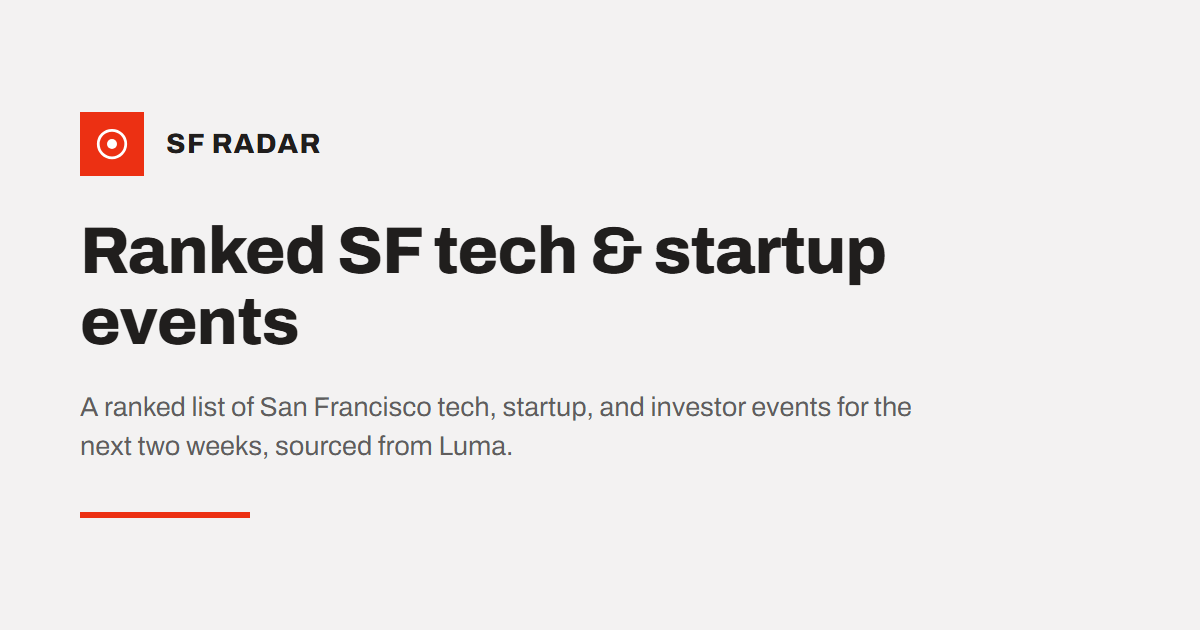
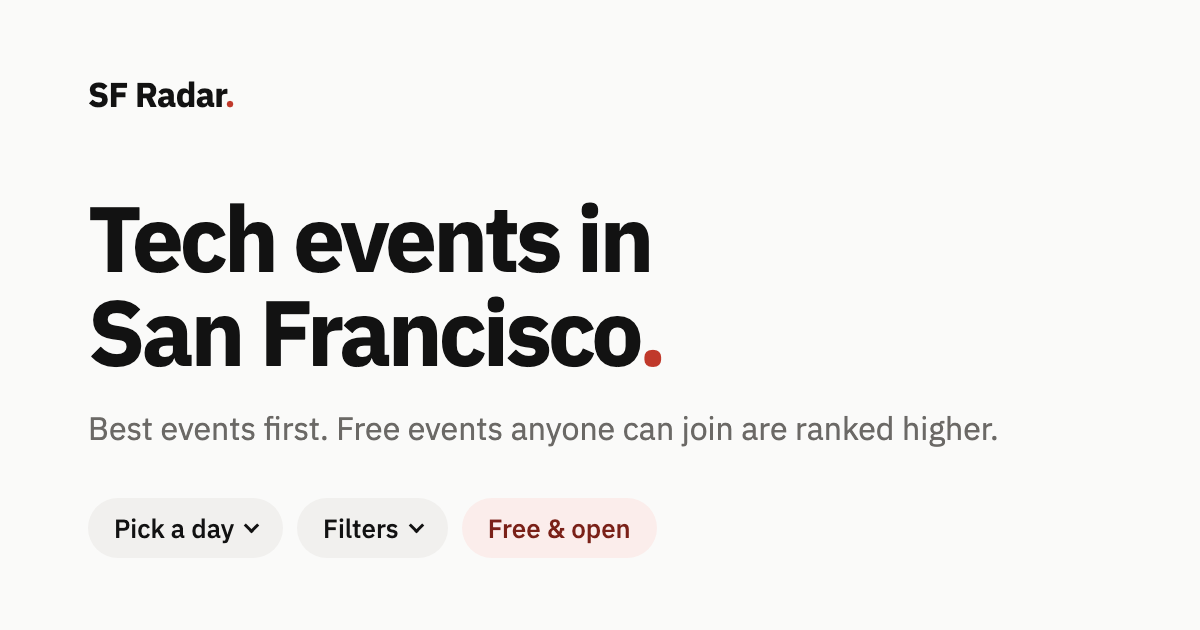
SEO pass: sitemap, robots, full meta, landmarks, new OG image, READMEs
- public/robots.txt and sitemap.xml: only / is public; /plan, /group,
  /feed and /api stay out (they already send X-Robots-Tag: noindex).
- index.html: tighter title and description, canonical, robots meta,
  og:site_name/locale/image size+alt, twitter:image:alt, WebSite JSON-LD,
  noscript fallback. Private routes swap to noindex and drop canonical.
- Landmarks: header and footer moved out of <main>; event times in
  <time datetime>.
- New 1200x630 og-image.png in the current design (cache-busted ?v=2).
- README frontend section rewritten for the current UI; web README
  replaces the Vite template.

diff --git a/sf-radar-ingest/sf-radar-web/index.html b/sf-radar-ingest/sf-radar-web/index.html
@@ -1,32 +1,74 @@
 <!doctype html>
-<html lang="en">
+<html lang="en" dir="ltr">
   <head>
     <meta charset="UTF-8" />
+    <meta name="viewport" content="width=device-width, initial-scale=1.0, viewport-fit=cover" />
+
+    <title>SF Radar: Tech &amp; startup events in San Francisco, ranked</title>
+    <meta name="description" content="Every day's tech, startup and investor events in San Francisco, ranked best first. Free events anyone can join rank higher. Pick a day, save what you like." />
+    <link rel="canonical" href="https://sf-radar-ingest.vercel.app/" />
+    <meta name="robots" content="index, follow, max-image-preview:large" />
+    <meta name="author" content="Alex Koukos" />
+
     <link rel="icon" type="image/svg+xml" href="/favicon.svg" />
     <link rel="icon" type="image/png" sizes="32x32" href="/favicon-32.png" />
     <link rel="apple-touch-icon" href="/apple-touch-icon.png" />
-    <meta name="viewport" content="width=device-width, initial-scale=1.0, viewport-fit=cover" />
+    <link rel="sitemap" type="application/xml" href="/sitemap.xml" />
+
     <meta name="color-scheme" content="light dark" />
     <meta name="theme-color" content="#FAFAF9" media="(prefers-color-scheme: light)" />
     <meta name="theme-color" content="#121212" media="(prefers-color-scheme: dark)" />
     <link rel="preconnect" href="https://fonts.googleapis.com" />
     <link rel="preconnect" href="https://fonts.gstatic.com" crossorigin />
-    <title>SF Radar — Ranked SF tech &amp; startup events</title>
-    <meta name="description" content="A ranked list of San Francisco tech, startup, and investor events by day, sourced from Luma." />
 
+    <!-- Open Graph (link previews in iMessage, Slack, WhatsApp, LinkedIn) -->
     <meta property="og:type" content="website" />
-    <meta property="og:title" content="SF Radar — Ranked SF tech & startup events" />
-    <meta property="og:description" content="A ranked list of San Francisco tech, startup, and investor events by day, sourced from Luma." />
-    <meta property="og:image" content="https://sf-radar-ingest.vercel.app/og-image.png" />
+    <meta property="og:site_name" content="SF Radar" />
+    <meta property="og:locale" content="en_US" />
     <meta property="og:url" content="https://sf-radar-ingest.vercel.app/" />
+    <meta property="og:title" content="SF Radar: Tech & startup events in San Francisco, ranked" />
+    <meta property="og:description" content="Every day's tech, startup and investor events in San Francisco, ranked best first. Free events anyone can join rank higher." />
+    <meta property="og:image" content="https://sf-radar-ingest.vercel.app/og-image.png?v=2" />
+    <meta property="og:image:type" content="image/png" />
+    <meta property="og:image:width" content="1200" />
+    <meta property="og:image:height" content="630" />
+    <meta property="og:image:alt" content="SF Radar. Tech events in San Francisco, ranked best first." />
 
     <meta name="twitter:card" content="summary_large_image" />
-    <meta name="twitter:title" content="SF Radar — Ranked SF tech & startup events" />
-    <meta name="twitter:description" content="A ranked list of San Francisco tech, startup, and investor events by day, sourced from Luma." />
-    <meta name="twitter:image" content="https://sf-radar-ingest.vercel.app/og-image.png" />
+    <meta name="twitter:title" content="SF Radar: Tech & startup events in San Francisco, ranked" />
+    <meta name="twitter:description" content="Every day's tech, startup and investor events in San Francisco, ranked best first. Free events anyone can join rank higher." />
+    <meta name="twitter:image" content="https://sf-radar-ingest.vercel.app/og-image.png?v=2" />
+    <meta name="twitter:image:alt" content="SF Radar. Tech events in San Francisco, ranked best first." />
+
+    <script type="application/ld+json">
+      {
+        "@context": "https://schema.org",
+        "@type": "WebSite",
+        "name": "SF Radar",
+        "url": "https://sf-radar-ingest.vercel.app/",
+        "description": "Tech, startup and investor events in San Francisco, ranked best first. Free events anyone can join rank higher.",
+        "inLanguage": "en-US",
+        "about": { "@type": "City", "name": "San Francisco" },
+        "author": {
+          "@type": "Person",
+          "name": "Alex Koukos",
+          "url": "https://www.linkedin.com/in/alexandros-koukos-952a42344"
+        }
+      }
+    </script>
   </head>
   <body>
     <div id="root"></div>
+    <noscript>
+      <main style="max-width: 40em; margin: 0 auto; padding: 24px 16px; font-family: system-ui, sans-serif; line-height: 1.5">
+        <h1>SF Radar: tech events in San Francisco, ranked</h1>
+        <p>
+          Every day's tech, startup and investor events in San Francisco, ranked best first.
+          Free events anyone can join rank higher. Events come from Luma, and all times are in Pacific time.
+        </p>
+        <p>This page needs JavaScript to load the live event list. Turn it on and reload.</p>
+      </main>
+    </noscript>
     <script type="module" src="/src/main.tsx"></script>
   </body>
 </html>

diff --git a/sf-radar-ingest/sf-radar-web/src/App.tsx b/sf-radar-ingest/sf-radar-web/src/App.tsx
@@ -224,7 +224,7 @@ function App() {
   return (
     <>
       <a className="skip-link" href="#events">Skip to events</a>
-      <main className="page">
+      <div className="page">
         <header className="top">
           <a className="brand" href="/" translate="no">
             SF Radar<span className="dot-red">.</span>
@@ -243,6 +243,8 @@ function App() {
             </Dropdown>
           )}
         </header>
+
+        <main id="main">
 
         <section className="intro">
           <h1 className="intro__title">
@@ -371,6 +373,8 @@ function App() {
           )}
         </section>
 
+        </main>
+
         <footer className="foot">
           <p>
             Events from Luma. All times in Pacific time.
@@ -384,7 +388,7 @@ function App() {
             Built by <a href="https://www.linkedin.com/in/alexandros-koukos-952a42344" target="_blank" rel="noreferrer">Alex Koukos</a> for the HH community.
           </p>
         </footer>
-      </main>
+      </div>
     </>
   );
 }

diff --git a/sf-radar-ingest/sf-radar-web/src/main.tsx b/sf-radar-ingest/sf-radar-web/src/main.tsx
@@ -14,6 +14,14 @@ import GroupCalendarPage from './components/GroupCalendarPage.tsx'
 const planMatch = window.location.pathname.match(/^\/plan\/([A-Za-z0-9_-]+)\/?$/)
 const groupMatch = window.location.pathname.match(/^\/group\/([a-f0-9]{32})\/?$/)
 
+// index.html is written for the public list at "/". The private share and
+// group pages reuse it, so they must not claim that page's canonical URL
+// or ask to be indexed (vercel.json also sends X-Robots-Tag: noindex).
+if (planMatch || groupMatch) {
+  document.querySelector('link[rel="canonical"]')?.remove()
+  document.querySelector('meta[name="robots"]')?.setAttribute('content', 'noindex, nofollow')
+}
+
 createRoot(document.getElementById('root')!).render(
   <StrictMode>
     {planMatch ? (

diff --git a/sf-radar-ingest/sf-radar-web/src/components/EventCard.tsx b/sf-radar-ingest/sf-radar-web/src/components/EventCard.tsx
@@ -29,7 +29,11 @@ function EventCard({ event, rank, saved, onToggleSave }: EventCardProps) {
           <span className="sr-only">Number {rank}: </span>
           {event.name}
         </h3>
-        {event.starts_at && <p className="ev__when">{ptStamp(new Date(event.starts_at))}</p>}
+        {event.starts_at && (
+          <p className="ev__when">
+            <time dateTime={event.starts_at}>{ptStamp(new Date(event.starts_at))}</time>
+          </p>
+        )}
         <p className="ev__where">
           {venueLabel(event)}
           {event.host_name && <> · {event.host_name}</>}

diff --git a/README.md b/README.md
@@ -1,6 +1,8 @@
 # SF Radar
 
-A live dashboard that ranks real San Francisco tech/startup/investor events for someone spending a short, fixed window of nights in the city with no existing local network. It answers one question: **out of everything happening tonight, what's actually worth walking into?**
+A live, ranked list of real San Francisco tech, startup and investor events, for someone spending a short, fixed stay in the city with no existing local network. Pick a day and it answers one question: **out of everything happening that day, what's actually worth walking into?**
+
+Live at **https://sf-radar-ingest.vercel.app**.
 
 ## The problem this solves
 
@@ -111,7 +113,7 @@ This is what lets a free, open-RSVP community meetup outrank a topically "hotter
 
 ### Why there's no "Host" score
 
-The breakdown bars in the app show Keyword / Venue / Access. There's no fourth "Host" bar, and that's intentional, not a missing feature. A host-reputation scorer was cut for time, so every host defaults to equal weight rather than being ranked on an incomplete signal. Showing a host bar backed by no real data would be worse than not showing one at all.
+The score has three parts: Keyword, Venue and Access. There's no fourth "Host" part, and that's intentional, not a missing feature. A host reputation scorer was cut for time, so every host defaults to equal weight rather than being ranked on an incomplete signal.
 
 ## Ingestion resilience
 
@@ -165,51 +167,60 @@ Sort is score first, start time as the tiebreaker, nothing else. No keyword filt
 
 ## The frontend
 
-### The 14-night strip
+One calm page, built to be simple enough to use without thinking about the interface. One column on a phone, a grid on a laptop, no animation, nothing that moves on its own, and plain words everywhere.
 
-One bar per night in the window. Bar height and color are a continuous function of that night's best event score (`height = score × 100%`, with color mixed between the accent color and neutral gray, weighted by score), not a discrete bucket. A ✦ mark appears on any night with 2+ events scoring ≥0.7 ("strong picks"), which also drives the "N strong picks tonight, you can only make one" banner when that night is selected. A night you've marked **Attending** renders as a solid full-height bar in a different color entirely, overriding the score gradient, since it's yours regardless of how it scored. Empty nights are drawn with a dashed outline and are unclickable. Click a night to filter the list below to just that night; click again to clear it.
+### Picking a day
+
+A single row of rounded buttons sits under the headline, in the same place and order at every screen size:
+
+- **Month** (defaults to this month) and **Day** ("Any day", or one day). Both are native dropdowns underneath, so every phone opens its own familiar picker. Only days that actually have events are offered, each with its count, for example "Thu 24 · 5 events", so every choice leads somewhere.
+- **Filters** opens a list of checkboxes, the way a shop's filter panel works. Changes apply instantly:
+  - Free events anyone can join (free **and** open RSVP)
+  - Open RSVP, no approval needed (open RSVP at any price)
+  - My saved events
+  - Type of event (Investor, Demo Day, Founder Social, Hackathon, Networking, Other), each with a count
+- **Group & share** holds the trip group, share link and calendar tools (see [Trip groups](#trip-groups)).
+
+On a laptop or tablet all four buttons share one line. On a phone the first three share one line and Group & share sits at the top right, level with the logo. On very narrow phones the row stays on one line and scrolls sideways. Dropdowns open as a panel under the button on bigger screens and as a sheet from the bottom (half the screen tall) on phones, so they are always fully on screen.
+
+The dates are grouped by the event's Pacific calendar day (formatted with an explicit `America/Los_Angeles` timezone), and the list keeps the SQL order. Picking a day or a filter only narrows the already ranked list; it never re-sorts it.
 
 ### The ranked list
 
-Below the strip: either the whole window ranked #01, #02, #03 and on, or a single night when one is selected. The all-window list loads about 20 events at a time, with more added as you scroll near the bottom or tap "Load more". Rank numbers stay continuous across batches, and changing a filter or the arrival date starts again from the first batch. The single-night list is short enough that it always shows in full.
+A line like "7 events on Friday, September 18" says exactly what is on screen. Below it, one event per row on a phone, two per row on a 13 inch laptop, three on wider screens. Each event shows:
 
-### Sort: Balanced / Investor signal first
+- its rank, title, and day and time with a visible "PDT" label
+- neighborhood and host
+- two tags: price ("Free" in red, or the price) and RSVP openness ("Open RSVP", "Application", "Waitlist"...)
+- two actions: **Save** (turns into a red outlined "✓ Saved") and **Open on Luma ↗**
 
-Two pills. "Balanced" clears all filters (plain score order). "Investor signal first" is a relabeled shortcut for the Investor Meetup category filter, visually a sort but really just filtering to a category that's already sorted by score within itself, so nothing is ever re-sorted client-side.
+Invite only and members only events are dimmed, never hidden. The list loads 10 events at a time and adds more as you scroll near the bottom; a "Show more" button does the same for tapping or keyboard use.
 
-### View: My Plan / Tonight only
+### Saved events
 
-Two toggles, mutually exclusive: clicking one turns the other off if it was on, and neither active is also a valid, default state. "Tonight only" jumps to the current window's first night. "My Plan" filters the ranked list down to events you've marked Attending. Logged nights (below) aren't ranked events, so they always show regardless of this toggle.
+Save lives in `localStorage` only: no accounts, no login, nothing sent to Supabase. It survives a reload but stays in that one browser.
 
-### Filter chips: Newcomer friendly / Free & open only / category
+### Offline / stale data
 
-"Free & open only" means free **and** open RSVP. "Newcomer friendly" is broader: open RSVP alone, regardless of price. Category chips are generated from whatever categories are actually present in the current window, so there's never a chip pointing at zero results. On a phone, the Sort and Filter Chips rows scroll horizontally in a single line instead of wrapping across multiple short rows, the same interaction as Luma's own mobile chip rows, so every option stays one swipe away instead of stacking into a wall of buttons.
+Cached events load instantly from `localStorage` on open. If a live fetch fails and a cache exists, the last good data stays on screen with a "You're offline" banner showing when it was saved, instead of a blank page. A hard error message only shows when there is no cache at all.
 
-### Event cards
+### Look and accessibility
 
-Rank badge, category and numeric score (0 to 100), title, time (always rendered in explicit `America/Los_Angeles` with a visible "PDT" label, never the browser's local timezone), venue, host, then three tags: price/free, RSVP openness, and a "Harder to get into" flag for invite-only/members-only events. Gated events are flagged, never hidden. Visual loudness maps to *rank*, not raw score directly: the #1 card gets a solid accent fill and, on wider screens, double width; #2 and #3 get an accent border; everything else is deliberately muted (`opacity: 0.78`). Tapping a card opens the detail modal, and the **Attend** button toggles the My Plan state directly from the card without opening it.
+Design tokens live in `sf-radar-web/src/styles/modernist.css`: IBM Plex Sans, warm neutral greys on an off white page, a matte black (`#121212`) dark mode that follows the phone's setting, and a single soft red for emphasis. Every text colour meets WCAG AA contrast in both themes.
 
-### Event detail modal
+Checked with axe-core (WCAG 2.2 AA plus best practice) at widths from 320px to 1920px, in light and dark, with each dropdown open: 0 violations. Keyboard use works throughout: the first Tab lands on "Skip to events", dropdowns move focus inside when opened and hand it back to their button on Escape, and every tap target is at least 44px.
 
-Same data as the card, more room, plus the score breakdown: three horizontal bars (Keyword / Venue / Access) showing exactly the sub-scores described in [Scoring](#scoring), and an "Open on Luma ↗" link when available.
+### Search and sharing
 
-### Log a Night
-
-The "+ Log a night" button in the header lets you record something that isn't a ranked or scraped event at all, like dinner with a friend or anything off-platform. Pick a night, give it a title and an optional note. It renders back as a dashed-border card, visually distinct from ranked cards (no score, not clickable), and counts toward the "N nights planned" total and the strip's booked-night fill exactly like an Attending toggle does. On a phone it confirms the save with a short toast, since the new card can land outside the current view.
-
-### My Plan storage
-
-Both Attending toggles and logged nights live in a single object in `localStorage` only, with no accounts, no login, and nothing ever sent to Supabase. It survives a page reload, so a demo doesn't lose your picks, but it never leaves the browser.
-
-### Offline / stale-data handling
-
-Cached events load instantly from `localStorage` on open. If a live fetch fails and a cache exists, the last good data stays on screen with a timestamped "stale" banner instead of a blank page or a crash. A hard error banner only shows if there's no cache at all, a true first-load failure with nothing to fall back to.
+- `sf-radar-web/public/robots.txt` and `sitemap.xml` list the one public page, `/`. Shared plans, trip groups and calendar feeds are private per person links, so they are disallowed in `robots.txt`, left out of the sitemap, and also sent with `X-Robots-Tag: noindex` from `vercel.json`.
+- `index.html` carries the title, description, canonical URL, Open Graph and Twitter card tags, `WebSite` structured data (JSON-LD), and a short no JavaScript fallback.
+- The link preview image is `sf-radar-web/public/og-image.png` (1200 × 630).
 
 ## Trip groups
 
-An optional layer for people coordinating a trip together. From the **Group · Share · Calendar** panel at the top of the page (collapsed by default) you can **create a group** (it adopts your current plan as member #1) or **join one** with an invite link. A group has an unguessable link plus a passphrase. The link alone shows nothing, and the passphrase gate is enforced server-side by the Vercel functions in `api/group/`, with the group tables unreachable through the anon key (RLS enabled, zero policies). No accounts. The same panel also carries a short "How this works" summary: RSVP happens on Luma, your plan is tied to this one browser, and private windows don't keep anything.
+An optional layer for people coordinating a trip together. From the **Group & share** button you can **create a group** (it adopts your current plan as member #1) or **join one** with an invite link. A group has an unguessable link plus a passphrase. The link alone shows nothing, and the passphrase gate is enforced server-side by the Vercel functions in `api/group/`, with the group tables unreachable through the anon key (RLS enabled, zero policies). No accounts. The same panel also carries a short "How this works" summary: RSVP happens on Luma, your plan is tied to this one browser, and private windows don't keep anything.
 
-Any member can **rename the group** or **change the passphrase** later, under *Group settings* in that panel. Changing the passphrase requires the current one and doesn't sign existing members out, and only new joiners need the new value. Member colors stay auto-assigned by join order from the palette.
+Any member can **rename the group** or **change the passphrase** later, under *Group settings* in that same dropdown. Changing the passphrase requires the current one and doesn't sign existing members out, and only new joiners need the new value. Member colors stay auto-assigned by join order from the palette.
 
 The group calendar at `/group/<slug>` overlays every member's plan night by night, in per-member colors auto-assigned from a CVD-safe palette. An event two or more members are attending renders **once** with stacked member indicators, not one row per person. Members can add their own custom events and 1:1 meetings. A meeting defaults to **busy** visibility, which shows the rest of the group only an anonymous "Busy" block with no title and no name, and that redaction is done in SQL, before the data leaves Postgres.
 

diff --git a/sf-radar-ingest/sf-radar-web/README.md b/sf-radar-ingest/sf-radar-web/README.md
@@ -1,32 +1,42 @@
-# React + TypeScript + Vite
+# SF Radar web app
 
-This template provides a minimal setup to get React working in Vite with HMR and some Oxlint rules.
+The frontend for SF Radar: a Vite + React + TypeScript single page app, plain CSS, deployed on Vercel. See the [project README](../../README.md) for how events are scraped, scored and served.
 
-Currently, two official plugins are available:
+Live: <https://sf-radar-ingest.vercel.app>
 
-- [@vitejs/plugin-react](https://github.com/vitejs/vite-plugin-react/blob/main/packages/plugin-react) uses [Oxc](https://oxc.rs)
-- [@vitejs/plugin-react-swc](https://github.com/vitejs/vite-plugin-react/blob/main/packages/plugin-react-swc) uses [SWC](https://swc.rs/)
+## Run it
 
-## React Compiler
-
-The React Compiler is not enabled on this template because of its impact on dev & build performances. To add it, see [this documentation](https://react.dev/learn/react-compiler/installation).
-
-## Expanding the Oxlint configuration
-
-If you are developing a production application, we recommend enabling type-aware lint rules by installing `oxlint-tsgolint` and editing `.oxlintrc.json`:
-
-```json
-{
-  "$schema": "./node_modules/oxlint/configuration_schema.json",
-  "plugins": ["react", "typescript", "oxc"],
-  "options": {
-    "typeAware": true
-  },
-  "rules": {
-    "react/rules-of-hooks": "error",
-    "react/only-export-components": ["warn", { "allowConstantExport": true }]
-  }
-}
+```sh
+npm install
+cp .env.example .env.local   # fill in VITE_SUPABASE_URL and VITE_SUPABASE_ANON_KEY
+npm run dev
 ```
 
-See the [Oxlint rules documentation](https://oxc.rs/docs/guide/usage/linter/rules) for the full list of rules and categories.
+The anon key is read only (Row Level Security allows `SELECT` only), so it is safe in the browser bundle. Server only keys (`SUPABASE_SERVICE_ROLE_KEY`, `GROUP_TOKEN_SECRET`) are for the `api/` functions and must never be `VITE_` prefixed.
+
+| Command | What it does |
+| --- | --- |
+| `npm run dev` | Local dev server |
+| `npm run build` | Type check and production build into `dist/` |
+| `npm test` | Unit tests (Vitest) |
+| `npm run lint` | Lint (oxlint) |
+
+## Routes
+
+| Path | Page | Indexed |
+| --- | --- | --- |
+| `/` | The ranked event list | Yes |
+| `/plan/<slug>` | A shared, read only plan | No |
+| `/group/<slug>` | A trip group calendar (passphrase gated) | No |
+| `/feed/<slug>`, `/group/feed/<token>` | Calendar feeds (`.ics`) | No |
+| `/api/*` | Vercel functions for groups and feeds | No |
+
+There is no router library: `src/main.tsx` picks the page from the path, and `vercel.json` rewrites the private paths to `index.html` and marks them `noindex`.
+
+## Where things live
+
+- `src/App.tsx`: the main page (month and day picker, filters, ranked list, saved events).
+- `src/components/`: `DatePicker`, `Dropdown` (the one dropdown pattern: bottom sheet on phones, dropdown on bigger screens), `FilterOptions`, `EventCard`, and the Group & share panel (`PlanActions` and the group components).
+- `src/lib/`: date keys in Pacific time, filters, local storage, plan sharing, calendar export.
+- `src/styles/modernist.css`: design tokens (colour, type, spacing, radius) for light and dark.
+- `public/`: icons, `og-image.png` (1200 × 630 link preview), `robots.txt`, `sitemap.xml`.
